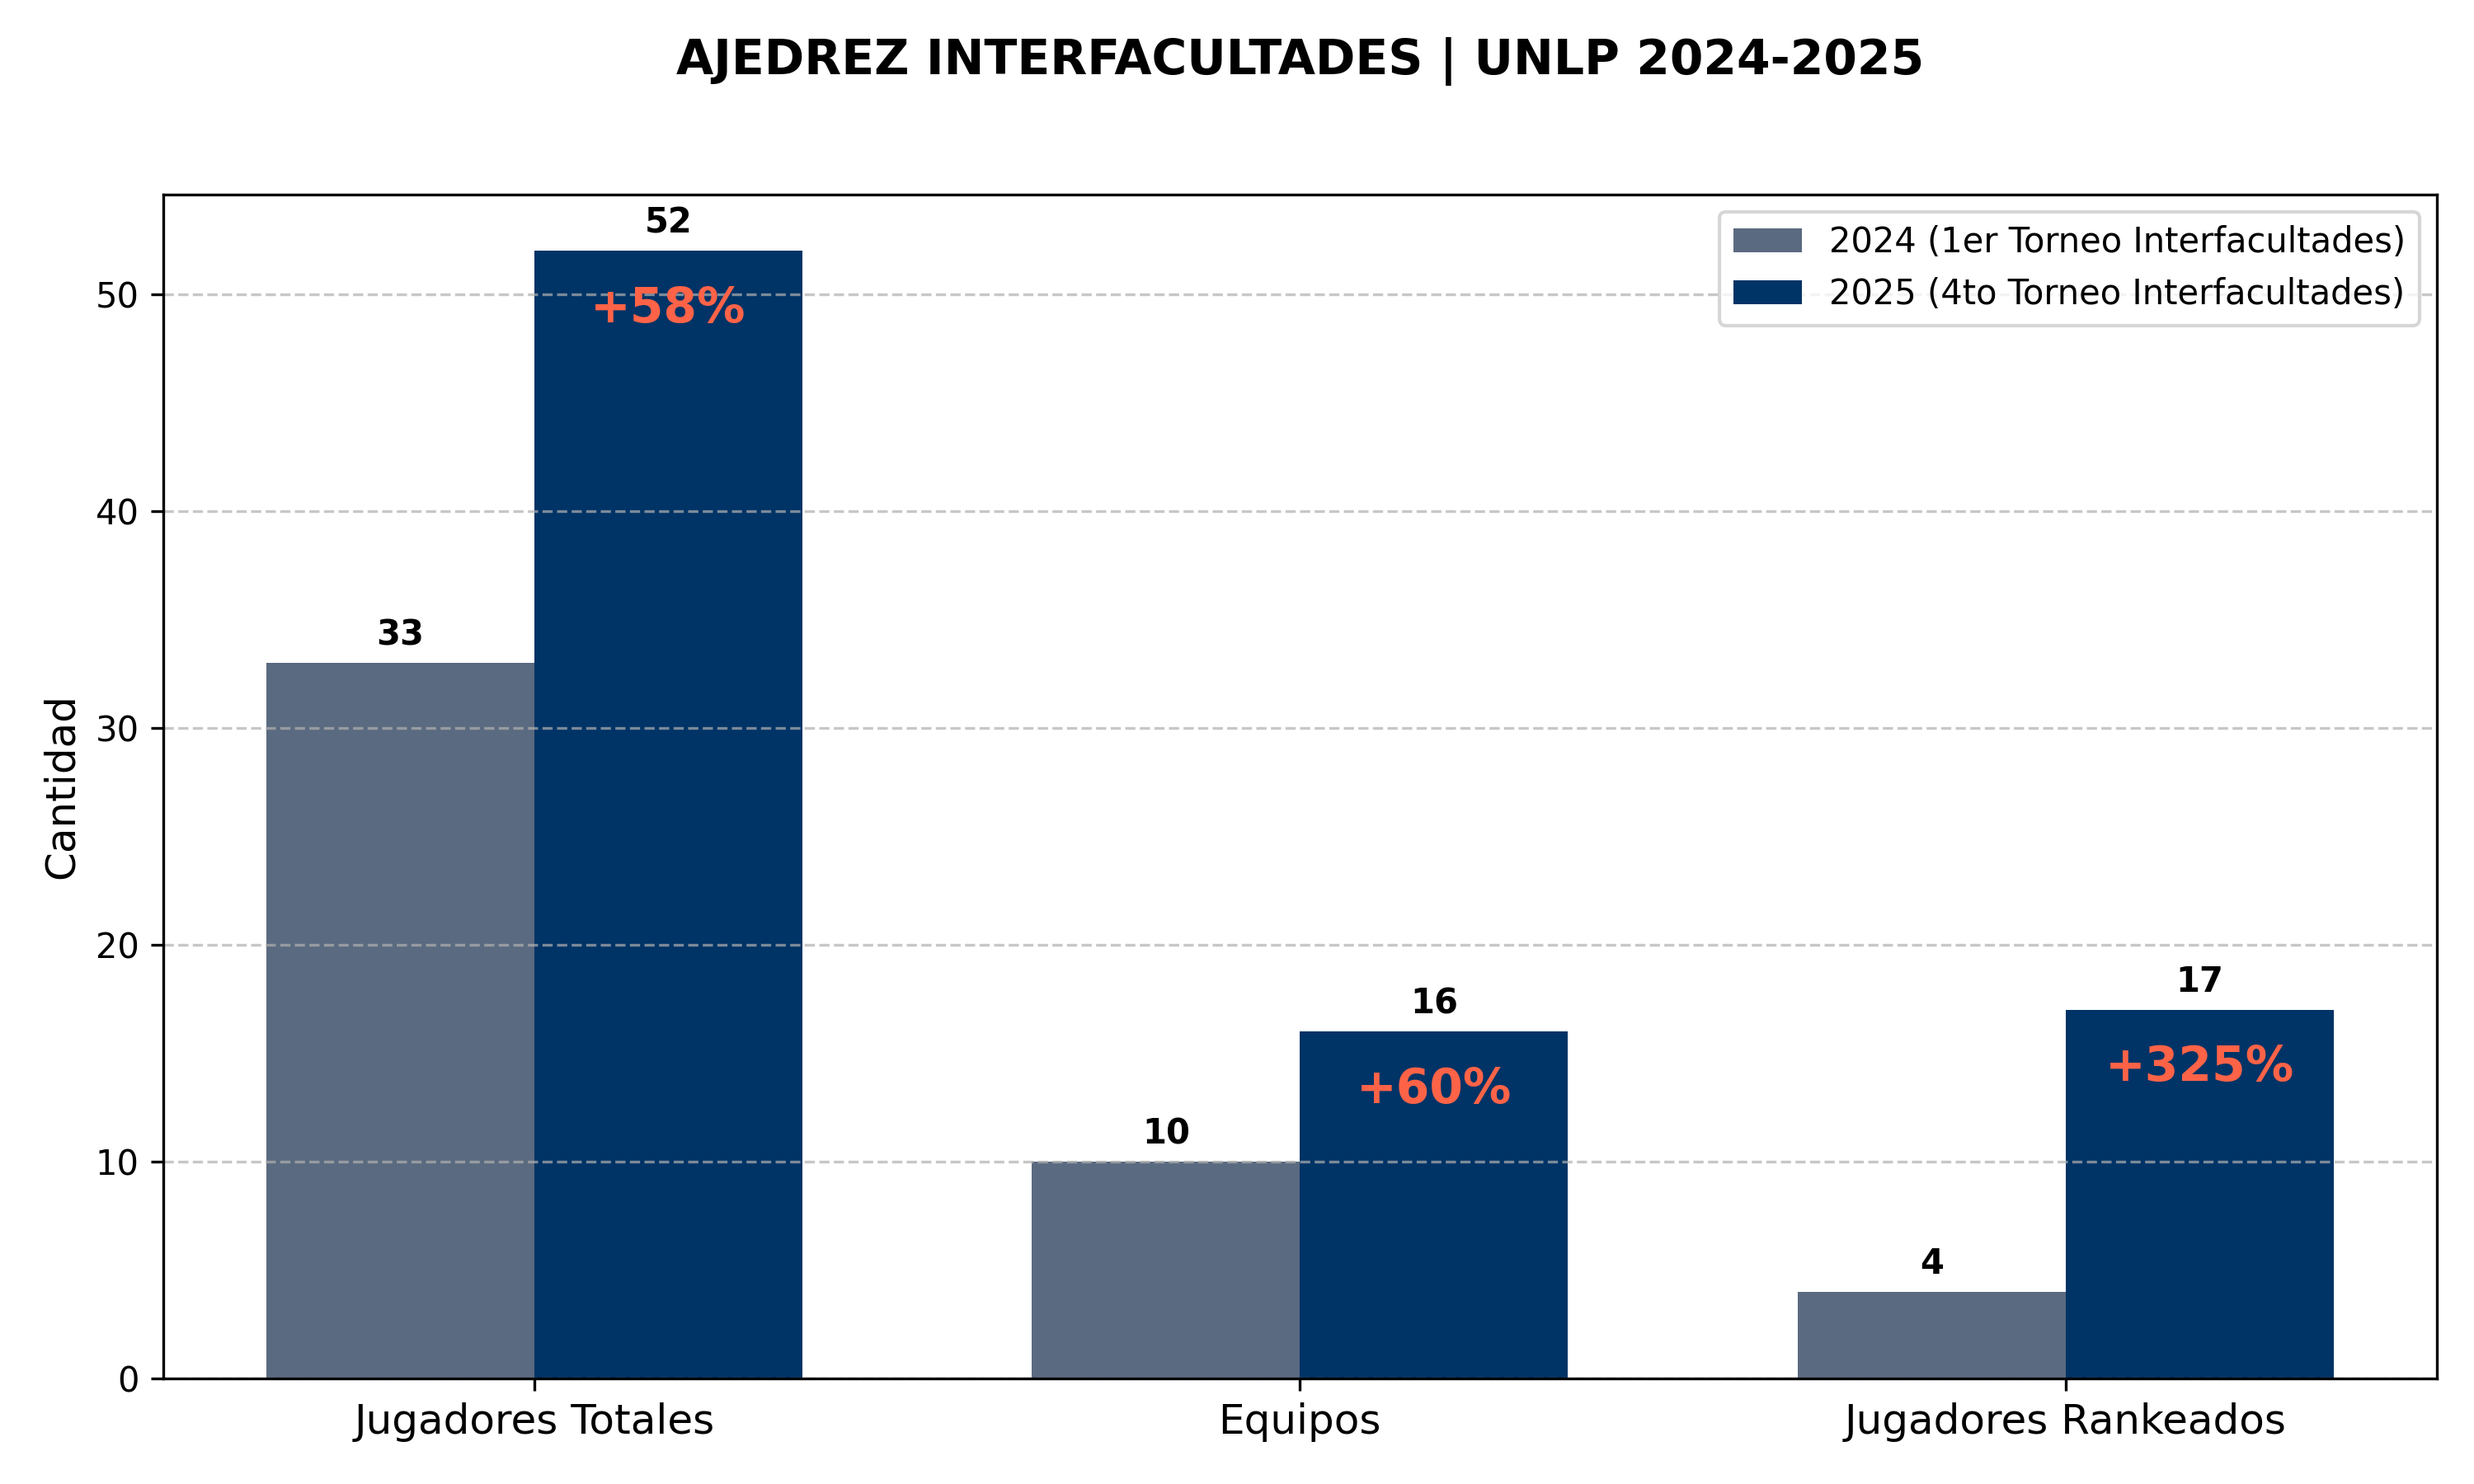
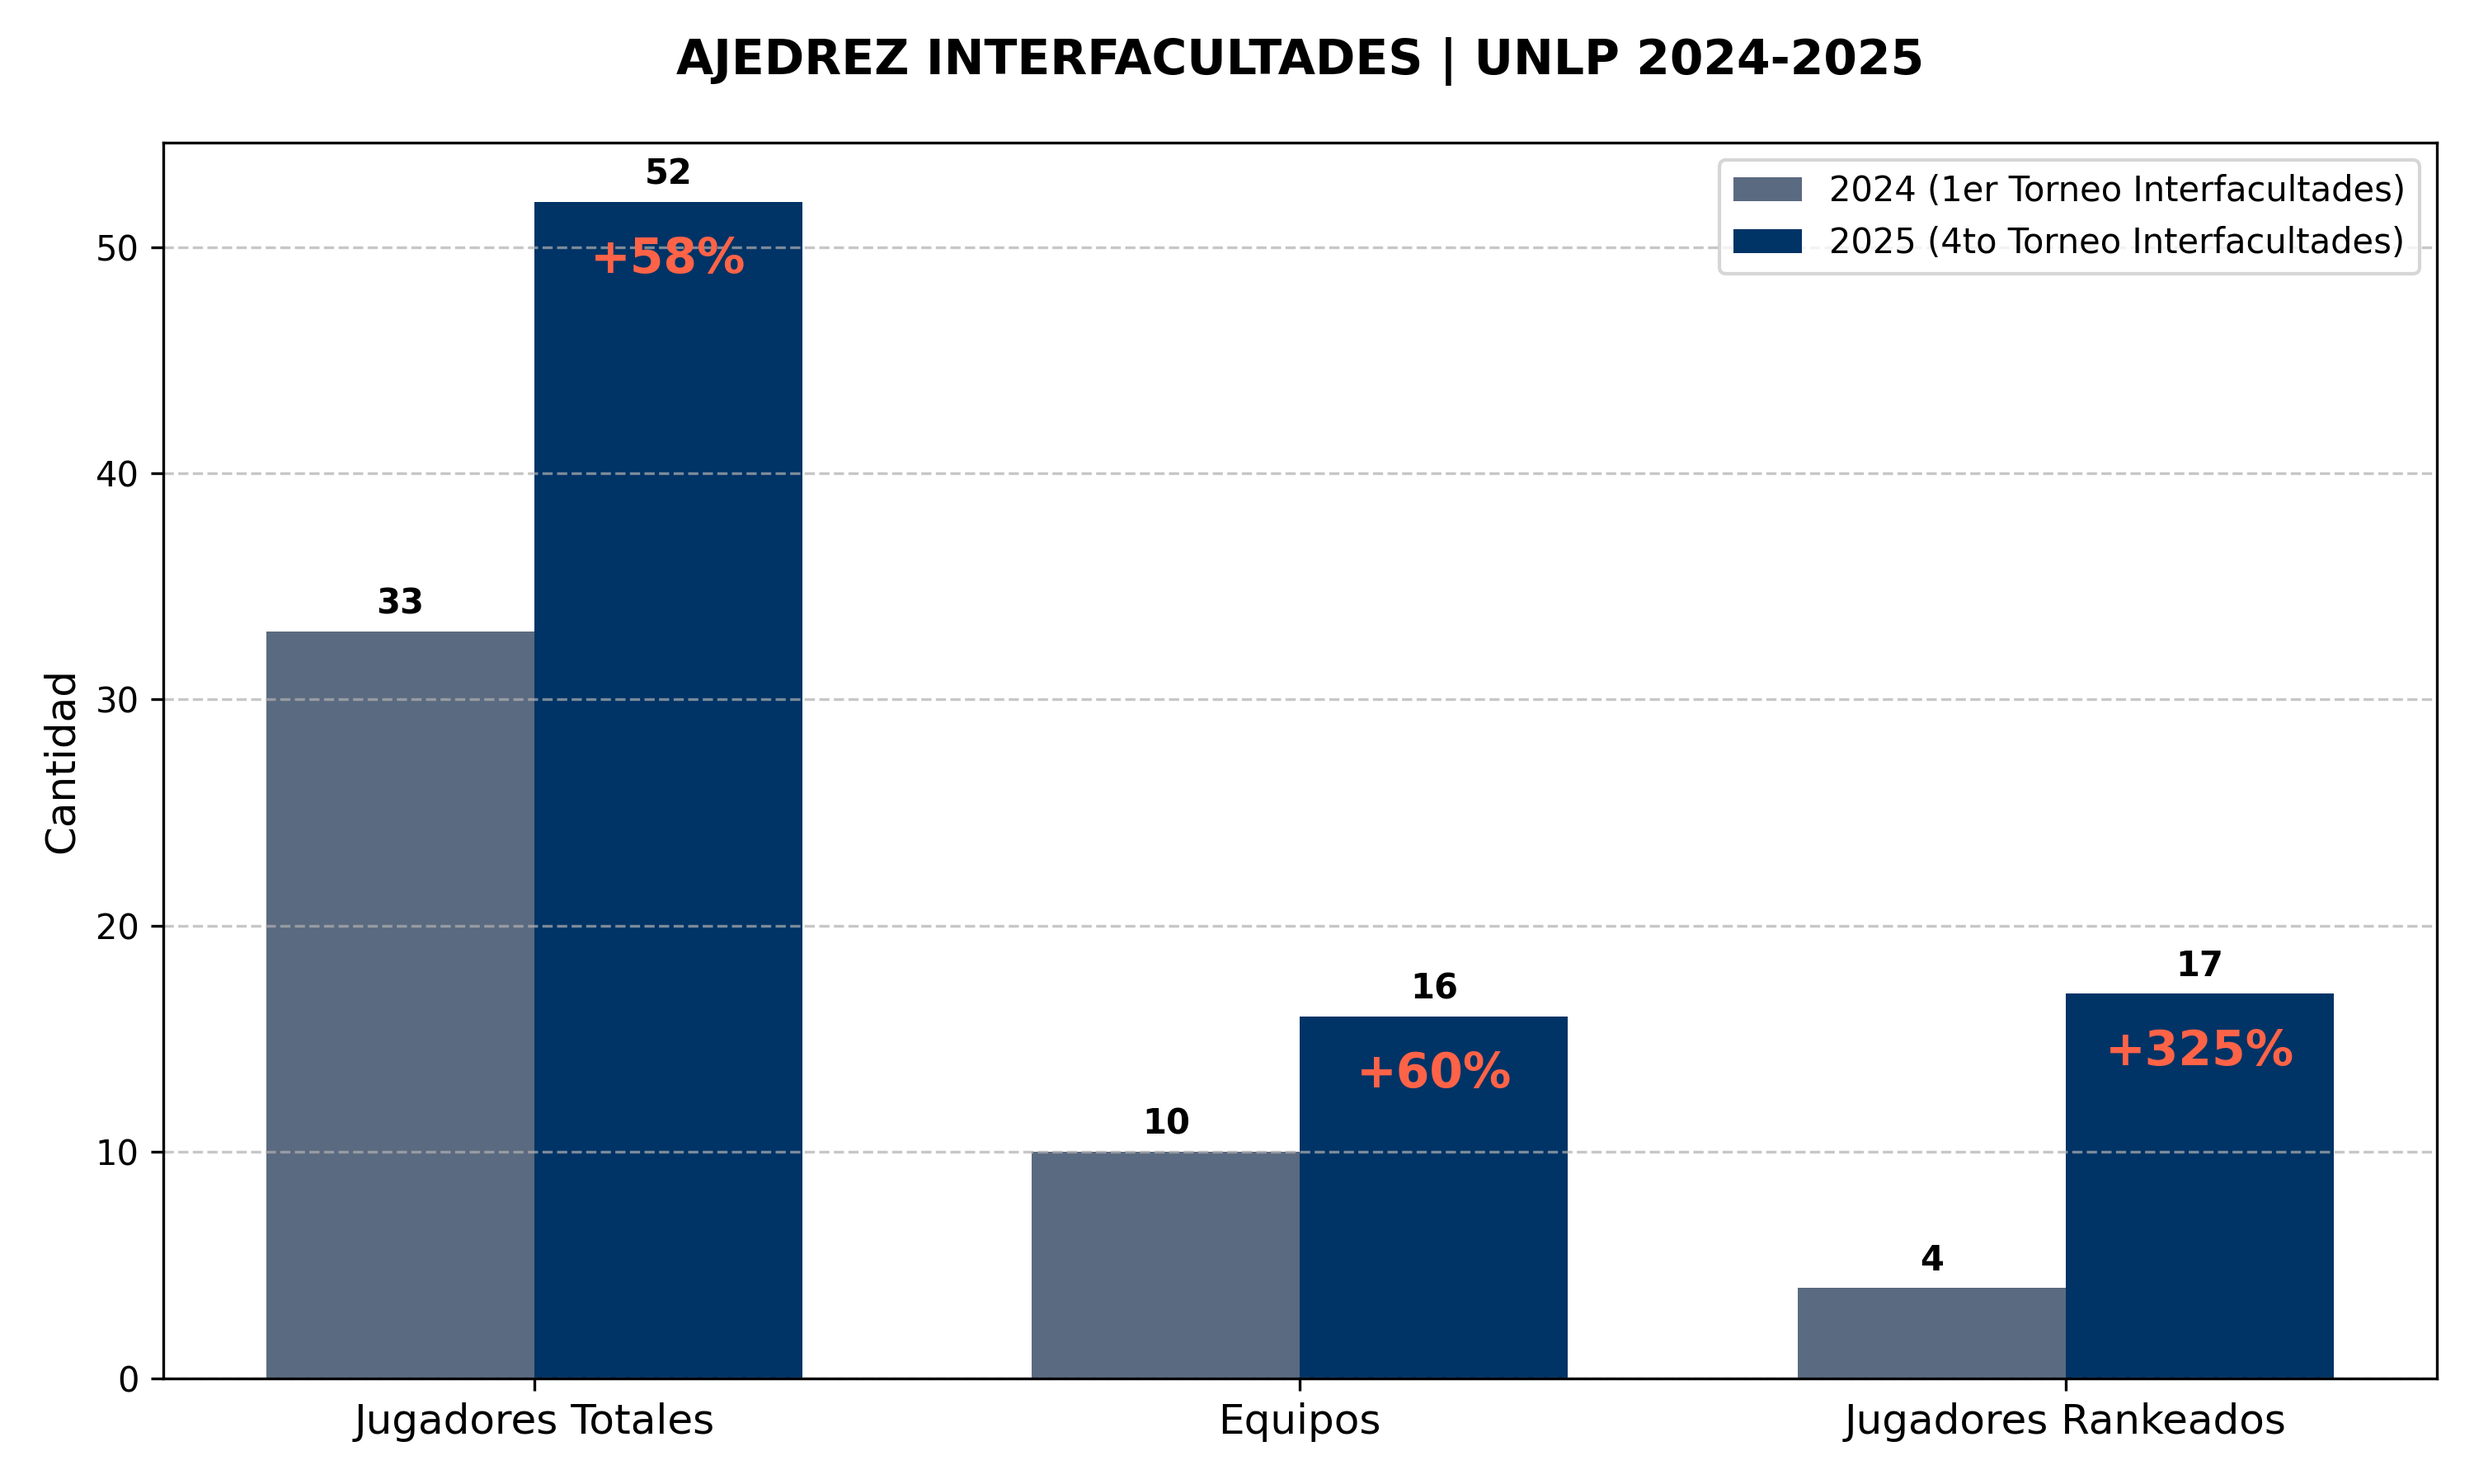
Último refactoring del PoC #1.

diff --git a/ajedrez_unlp_dataviz_1.py b/ajedrez_unlp_dataviz_1.py
@@ -4,77 +4,69 @@ import numpy as np
 
 # 1. DATOS (La narrativa del Salto de Calidad)
 data = {
-    "metric": ["Jugadores totales", "Equipos", "Jugadores rankeados"],
+    "Métrica": [
+        "Jugadores totales",
+        "Equipos",
+        "Jugadores rankeados",
+    ],  # Nombres en español para las etiquetas del Eje X
     "2024 (1er Torneo Interfacultades)": [33, 10, 4],
     "2025 (4to Torneo Interfacultades)": [52, 16, 17],
 }
 
 df = pd.DataFrame(data)
 
-# Definir la métrica clave para el resalte (+325%)
-key_metric = "Jugadores rankeados"
-
 # --- 2. CONFIGURACIÓN VISUAL Y COLORES ---
-# Colores: Usamos colores institucionales (ej. azul UNLP) y un color de alerta.
-color_2024 = "#5A6A80"  # Gris/Azul tenue (el 'antes')
-color_2025 = "#003366"  # Azul oscuro (el 'después', la fuerza)
-color_highlight = "#FF6347"  # Rojo/Naranja brillante (para el crecimiento)
+color_2024 = "#5A6A80"  # Gris/Azul tenue ('antes')
+color_2025 = "#003366"  # Azul oscuro ('después', fuerza)
+color_highlight = "#FF6347"  # Rojo/Naranja brillante (crecimiento/impacto)
 
 # Calcular las tasas de crecimiento (Para la anotación)
-crecimiento_jugadores = ((52 - 33) / 33) * 100
-crecimiento_equipos = ((16 - 10) / 10) * 100
-crecimiento_fide = ((17 - 4) / 4) * 100
-
-tasas_crecimiento = [crecimiento_jugadores, crecimiento_equipos, crecimiento_fide]
+tasas_crecimiento = [
+    ((52 - 33) / 33) * 100,  # Jugadores
+    ((16 - 10) / 10) * 100,  # Equipos
+    ((17 - 4) / 4) * 100,  # Rankeados
+]
 
 # Definir el ancho de las barras y la posición
-bar_anchor = 0.35
-x = np.arange(len(df["metric"]))  # Posición de las etiquetas
+bar_width = 0.35
+x = np.arange(len(df["Métrica"]))  # Posición de las etiquetas
 
-# --- 3. CREACIÓN DEL GRÁFICO BASE ---
+
+# ----------------------------------------------------
+# --- 3. CREACIÓN DEL GRÁFICO BASE (CORRECCIÓN CRÍTICA) ---
+# ----------------------------------------------------
+
+# CRÍTICO: Se llama a plt.subplots SÓLO UNA VEZ.
 fig, ax = plt.subplots(figsize=(10, 6))
 
-# Barras 2024
+# Barras 2024 (Se usa 'bar_2024' para consistencia con el código anterior)
 bar_2024 = ax.bar(
-    x - bar_anchor / 2,
+    x - bar_width / 2,
     df["2024 (1er Torneo Interfacultades)"],
-    bar_anchor,
+    bar_width,
     label="2024 (1er Torneo Interfacultades)",
     color=color_2024,
 )
 
-
-# --- 3. CREACIÓN DEL GRÁFICO BASE (CORREGIDO) ---
-fig, ax = plt.subplots(figsize=(10, 6))
-
-# Barras 2024 (Se mantiene igual)
-barra_2024 = ax.bar(
-    x - bar_anchor / 2,
-    df["2024 (1er Torneo Interfacultades)"],
-    bar_anchor,
-    label="2024 (1er Torneo Interfacultades)",
-    color=color_2024,
-)
-
-# Barras 2025 (USAMOS SOLO EL COLOR PRINCIPAL - NO HAY RESALTE EN LAS BARRAS)
-barra_2025 = ax.bar(
-    x + bar_anchor / 2,
+# Barras 2025
+bar_2025 = ax.bar(
+    x + bar_width / 2,
     df["2025 (4to Torneo Interfacultades)"],
-    bar_anchor,
+    bar_width,
     label="2025 (4to Torneo Interfacultades)",
     color=color_2025,
 )
 
 
 # --- 4. DETALLES Y ANOTACIONES DE DATOS ---
-# Función para añadir las etiquetas de valor sobre las barras
+# Función para añadir las etiquetas de valor sobre las barras (autolabel)
 def autolabel(rects, df_col):
     for rect, valor in zip(rects, df_col):
         height = rect.get_height()
         ax.annotate(
             f"{valor}",
             xy=(rect.get_x() + rect.get_width() / 2, height),
-            xytext=(0, 3),
+            xytext=(0, 3),  # Offset vertical de 3 puntos arriba de la barra
             textcoords="offset points",
             ha="center",
             va="bottom",
@@ -83,49 +75,47 @@ def autolabel(rects, df_col):
         )
 
 
-autolabel(barra_2024, df["2024 (1er Torneo Interfacultades)"])
-autolabel(barra_2025, df["2025 (4to Torneo Interfacultades)"])
+# Aplicar etiquetas de valor
+autolabel(bar_2024, df["2024 (1er Torneo Interfacultades)"])
+autolabel(bar_2025, df["2025 (4to Torneo Interfacultades)"])
 
-# Título y Etiquetas (Se mantienen igual)
+# Título y Etiquetas (Ajuste final)
 ax.set_title(
     "AJEDREZ INTERFACULTADES | UNLP 2024-2025",
     fontsize=14,
     weight="bold",
-    pad=35,
+    pad=20,  # Reducimos el padding, ya no hay flechas que choquen
 )
 ax.set_ylabel("Cantidad", fontsize=12)
 ax.set_xticks(x)
-# Corrección de Etiquetas: Asegúrate de que las etiquetas del eje X sean legibles para el público.
 ax.set_xticklabels(["Jugadores Totales", "Equipos", "Jugadores Rankeados"], fontsize=12)
 
 
+# ----------------------------------------------------
 # --- 5. ANOTACIÓN DEL CRECIMIENTO (+XX%) DENTRO DE LA BARRA ---
+# ----------------------------------------------------
 
 # Recorremos cada una de las 3 barras de 2025
 for i, tasa in enumerate(tasas_crecimiento):
 
-    rect = barra_2025[i]
+    rect = bar_2025[i]  # CRÍTICO: Usamos la variable correcta 'bar_2025'
     x_pos = rect.get_x() + rect.get_width() / 2  # Centro de la barra en X
     altura_barra = rect.get_height()  # Altura total de la barra (ej: 52, 16, 17)
 
-    # Posicionamos el texto:
-    # 1. 'xy=(x_pos, altura_barra)': Punto de referencia en la punta de la barra.
-    # 2. 'xytext=(0, -10)': Desplazamiento de 10 puntos HACIA ABAJO (negativo)
-    # 3. 'va='top'': Alineamos la parte superior del texto con el desplazamiento (-10 puntos).
-
+    # Posicionamos el texto: 10 puntos HACIA ABAJO (dentro de la barra)
     ax.annotate(
         f"+{tasa:.0f}%",
         xy=(x_pos, altura_barra),
-        xytext=(0, -10),  # Desplazamiento: 10 puntos HACIA ABAJO (dentro de la barra)
+        xytext=(0, -10),  # Desplazamiento DENTRO de la barra
         textcoords="offset points",
         ha="center",
-        va="top",  # 'va' en 'top' para que el texto quede centrado y bien alineado.
+        va="top",
         fontsize=14,
-        color=color_highlight,  # Color de alto impacto
+        color=color_highlight,
         weight="heavy",
     )
 
-# Mostrar Leyenda y Ajustes Finales (Se mantiene igual)
+# Mostrar Leyenda y Ajustes Finales
 ax.legend()
 plt.grid(axis="y", linestyle="--", alpha=0.7)
 plt.tight_layout()
